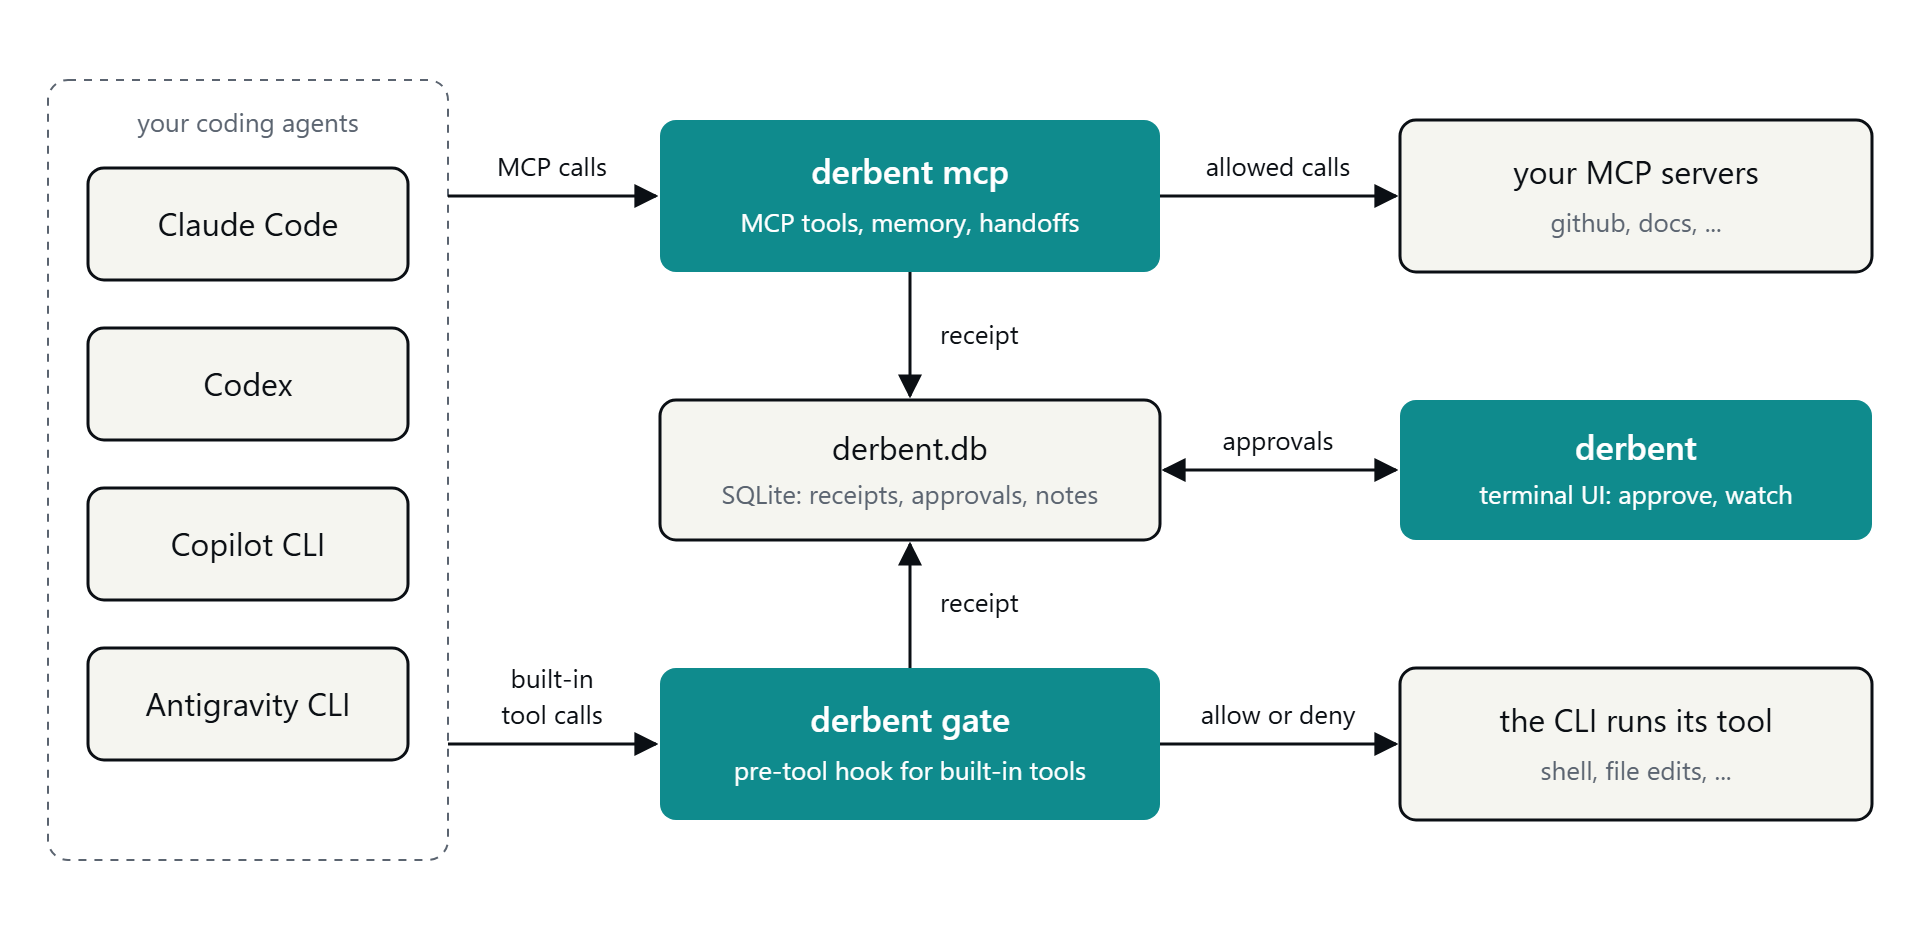
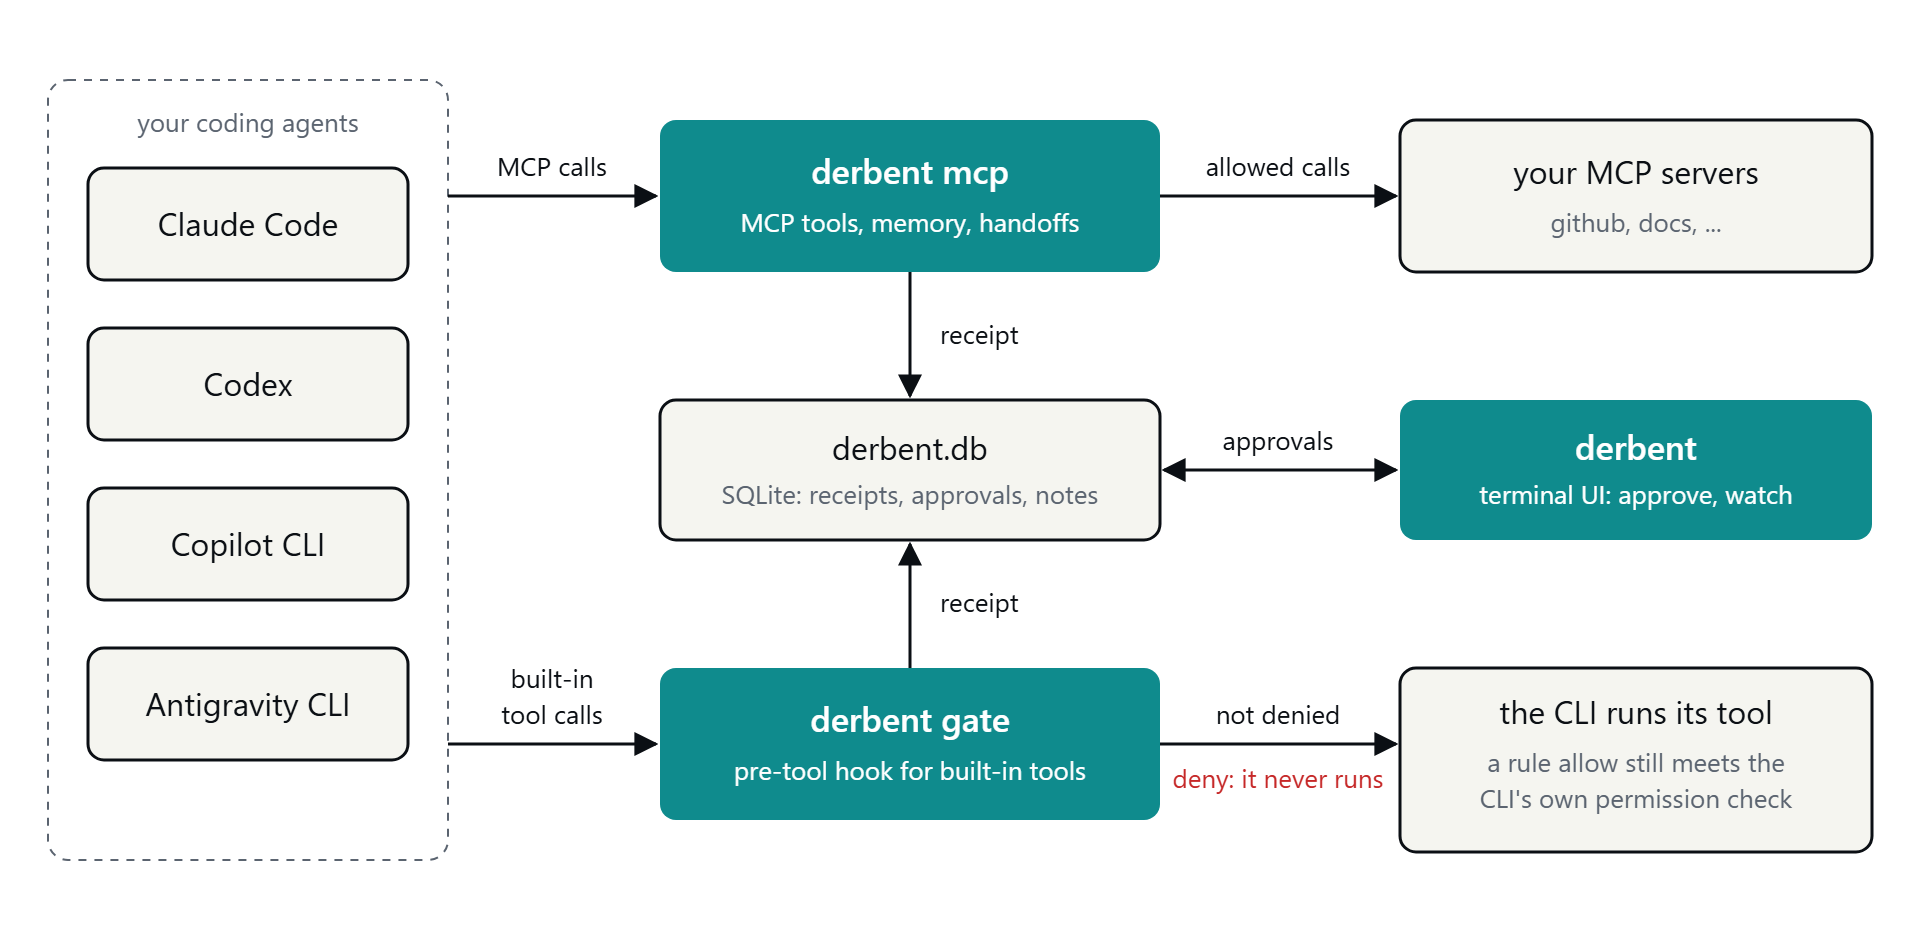
Show in the main diagram that a denied built-in call never runs and a rule allow still meets the CLI's own check, and say verify names where the chain breaks

Changed region(s): [[0.7188, 0.7404, 0.9688, 0.9255], [0.625, 0.8021, 0.7188, 0.833], [0.625, 0.7404, 0.7188, 0.7713]]

diff --git a/README.md b/README.md
@@ -14,7 +14,7 @@ Claude Code, Codex, GitHub Copilot CLI and Antigravity CLI connect to Derbent as
 other MCP servers sit behind it. Each CLI's pre-tool hook sends its built-in tools, such as the shell and
 file edits, through the same gate. Every call is decided by your rules and written down.
 
-![Four coding agent CLIs send MCP calls to derbent mcp and built-in tool calls to the derbent gate hook; both write a receipt to derbent.db, which the derbent terminal UI reads to show and approve calls, and allowed calls go on to your MCP servers or the CLI's own tool](docs/assets/diagrams/how-it-works.png)
+![Four coding agent CLIs send MCP calls to derbent mcp and built-in tool calls to the derbent gate hook; both write a receipt to derbent.db, which the derbent terminal UI reads to show and approve calls, allowed MCP calls go on to your MCP servers, and a built-in call that is not denied runs in the CLI, which still applies its own permission check to a rule allow](docs/assets/diagrams/how-it-works.png)
 
 It is one binary for Windows, macOS and Linux. There is no daemon and no network listener: a SQLite file
 is the only shared state ([ADR 0001](docs/adr/0001-no-daemon.md)).
@@ -26,8 +26,8 @@ is the only shared state ([ADR 0001](docs/adr/0001-no-daemon.md)).
 - **Approvals.** A call your rules ask about waits until you press `a` in the terminal UI, or is denied
   after 50 seconds by default.
 - **Receipts.** Every call gets a hash-chained receipt, and `derbent verify` names the first receipt
-  that was edited, moved, inserted or removed. Keep the head hash it prints to catch the newest ones
-  being deleted too.
+  where the chain breaks after one was edited, moved, inserted or removed. Keep the head hash it prints
+  to catch the newest ones being deleted too.
 - **Shared memory and handoffs.** Agents keep notes per repository and can leave tasks for each other.
 - **Guards for the long run:** budgets for agents stuck in a loop, pins that hold back a server's tool
   when its definition changes, and project rules a repository can use to be stricter.
